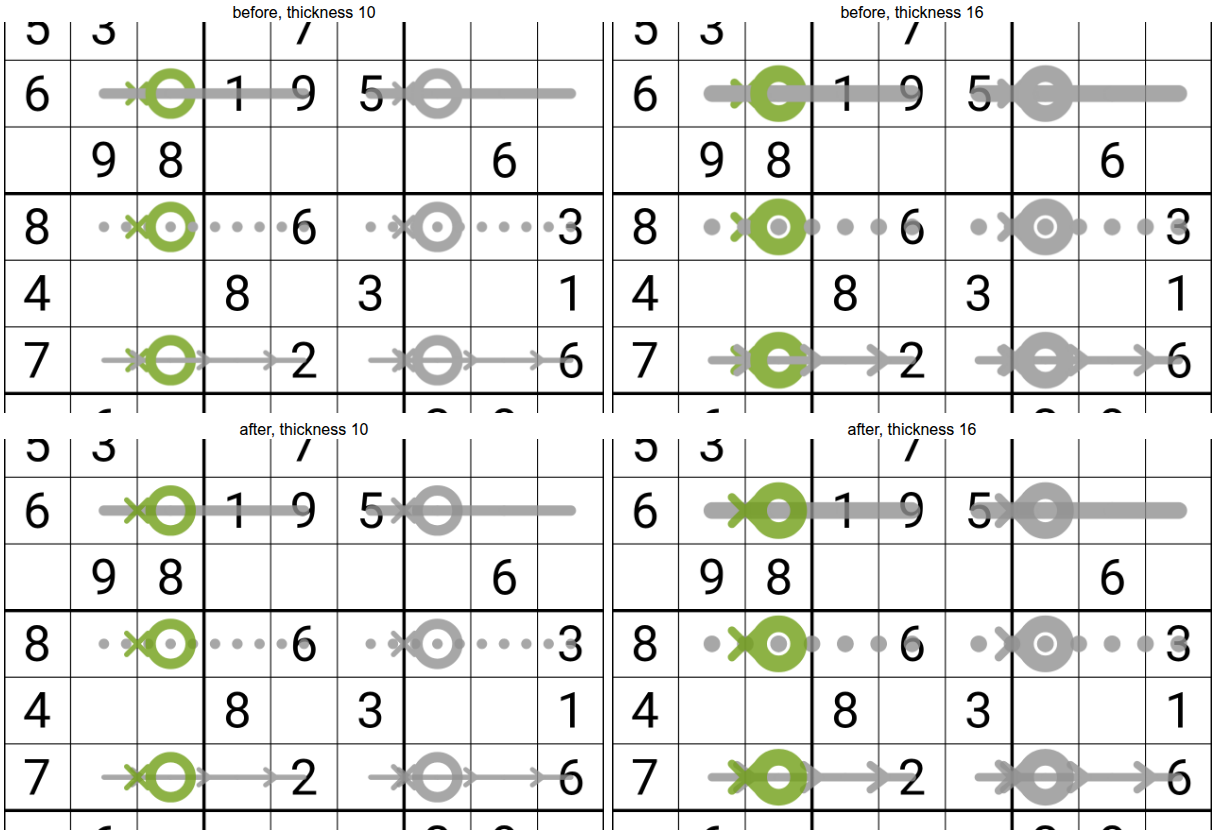
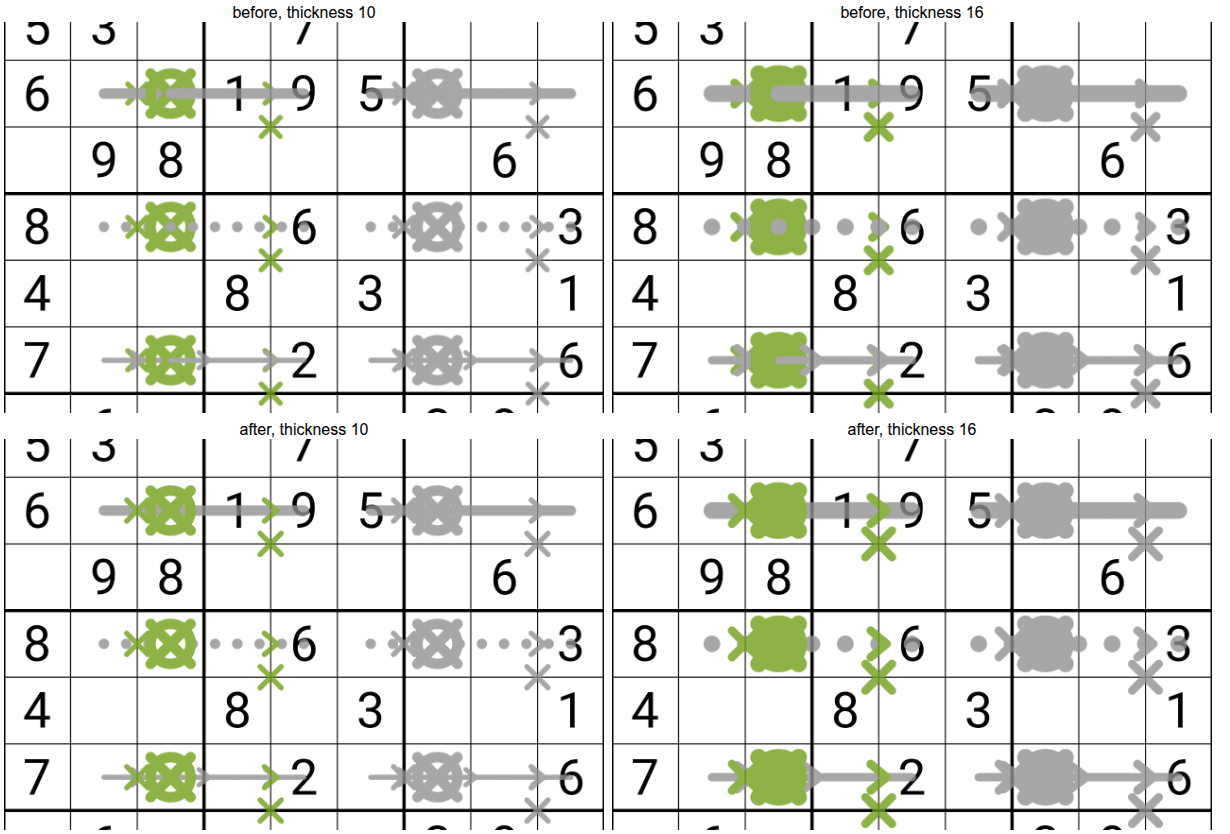
Pen Tool Extras: marks layer inside the pen layer, review fixes (#78)
Fixes the review wave's findings: the marks layer is the pen layer's last
child so the opacity fades marks and lines as one picture; tests, comments
and docs follow; the doc change moves to docs/pen-tool-extras.md.

Closes #78

diff --git a/pen-tool-extras.user.js b/pen-tool-extras.user.js
@@ -53,8 +53,9 @@
   // The group the drag highlight (`.penhint`, and the erase highlight, which is the same element) is moved
   // to while a line is dragged, so the pen layer's opacity does not fade it. It sits right above the pen layer.
   const HINT_LAYER_ID = 'pen-tool-extras-hint'
-  // The group every edge, corner and cell mark is drawn in, made beside the pen layer and above it, so a mark is over every line
-  // whichever cell holds it (SudokuPad adds a cell's strokes to the pen layer in cell order, so a later cell's line covers an earlier cell's mark).
+  // The group every edge mark, grid-corner mark and cell circle and cross is drawn in. It is the last child of the pen layer, so a mark is over every line
+  // whichever cell holds it (SudokuPad adds a cell's strokes to the pen layer in cell order, so a later cell's line covers an earlier cell's mark), and the
+  // pen layer's opacity fades marks and lines as one picture.
   const MARKS_LAYER_ID = 'pen-tool-extras-marks'
   const SVG_NAMESPACE = 'http://www.w3.org/2000/svg'
   // `MouseEvent.button` of the right mouse button.
@@ -167,7 +168,7 @@
   // bottom row's first column, the two grid corners the other kinds cannot reach. Per kind: the X,
   // then the circle, in the order of CORNER_CYCLE.types.
   const CORNER_VALUES = { tl: ['t', 'w'], br: ['u', 'x'], far: ['v', 'y'] }
-  // The pen values drawn in the marks layer: SudokuPad's own edge X and the cell circle and cross, and every value this script adds.
+  // The pen values drawn in the marks layer: SudokuPad's own edge X and cell circle and cross, and every edge mark and grid-corner mark value this script adds.
   const MARK_VALUES = [...EDGE_X, '5', '6', ...EDGE_X.flatMap((edge) => ADDED[edge]), ...Object.values(CORNER_VALUES).flat()]
   // The shape of the third mark per edge. Its checkbox is the `dot` field of the saved settings.
   const CIRCLE = 'o'
@@ -674,7 +675,7 @@
   // whichever stylesheet loads last.
   function buildOpacityCss (opacity) {
     if (normalizeOpacity(opacity) !== opacity) throw new RangeError(`pen-tool-extras: ${opacity} is not an opacity from ${OPACITY.min} to ${OPACITY.max} in steps of ${OPACITY.step}`)
-    return `:root:root .cell-pen { opacity: 1; }\n:root:root ${PEN_LAYER}, :root:root #${MARKS_LAYER_ID} { opacity: ${opacity / 100}; }`
+    return `:root:root .cell-pen { opacity: 1; }\n:root:root ${PEN_LAYER} { opacity: ${opacity / 100}; }`
   }
 
   // How much shorter than an even split of a segment the dot spacing is. With the spacing exactly `length / dots`
@@ -1056,26 +1057,32 @@
     return group
   }
 
-  // Moves a mark's path from the pen layer into the marks layer. The cell still holds the same element, so erasing, undo and a
-  // redraw remove it from wherever it is.
-  function raiseMark (part) {
+  // Puts the marks layer back as the last child of the pen layer, which a stroke SudokuPad has just added after it displaced, and
+  // moves `part` into it when it is a mark. The cell still holds the same element, so erasing, undo and a redraw remove it from
+  // wherever it is.
+  function keepMarksAbove (part, isMark) {
     const layer = marksLayer()
-    if (layer && part && part.parentNode !== layer) layer.appendChild(part)
+    if (!layer) return
+    if (isMark && part && part.parentNode !== layer) layer.appendChild(part)
+    if (layer.parentNode.lastChild !== layer) layer.parentNode.appendChild(layer)
   }
 
-  // Draws the values this script adds. SudokuPad's own `renderPen` has no case for them and
-  // gives the path no `d`; it copies every option onto the path, so passing `d` is enough. A line in a page 3
+  // Draws the values this script adds, and keeps every mark above the lines. SudokuPad's own `renderPen` has no case for the values
+  // and gives the path no `d`; it copies every option onto the path, so passing `d` is enough. A line in a page 3
   // pen's color is drawn as a chevron line instead.
   function wrapRenderPen (proto, renderer) {
     const original = proto.renderPen
     const size = renderer.constructor.CellSize
-    proto.renderPen = function (opts = {}) {
+    const draw = function (opts) {
       const forward = chevronOf(opts)
       if (forward !== null) return renderChevronLine(this, opts, forward)
       const mark = addedMark(opts.value, opts.row, opts.col)
       const d = mark === null ? undefined : this.constructor.rcToPathData([mark.point]) + shapePath(mark.shape, size * 0.125)
-      const part = original.call(this, mark === null ? opts : Object.assign({}, opts, { d }))
-      if (MARK_VALUES.includes(opts.value)) raiseMark(part)
+      return original.call(this, mark === null ? opts : Object.assign({}, opts, { d }))
+    }
+    proto.renderPen = function (opts = {}) {
+      const part = draw.call(this, opts)
+      keepMarksAbove(part, MARK_VALUES.includes(opts.value))
       return part
     }
   }
@@ -1570,26 +1577,29 @@
     if (saved && saved !== selectedPen() && penNumber(saved) === selectedPen()) penTool.setSelectedColor(saved)
   }
 
-  // The group with `id`, made on first use right after the element `anchor` gives; null when the page has no such element.
-  function layerAfter (id, anchor) {
+  // The group `id`, made on first use as the last child of the pen layer, or right after it with `beside`; null when the page has no
+  // pen layer.
+  function layerIn (id, beside) {
     let layer = document.getElementById(id)
-    const before = anchor()
-    if (!layer && before) {
+    const penLayer = document.querySelector(PEN_LAYER)
+    if (!layer && penLayer) {
       layer = document.createElementNS(SVG_NAMESPACE, 'g')
       layer.id = id
-      before.after(layer)
+      if (beside) penLayer.after(layer)
+      else penLayer.appendChild(layer)
     }
     return layer
   }
 
-  // The group the marks live in, made beside the pen layer and above it; null when the page has no pen layer.
+  // The group the marks live in, inside the pen layer; null when the page has no pen layer.
   function marksLayer () {
-    return layerAfter(MARKS_LAYER_ID, () => document.querySelector(PEN_LAYER))
+    return layerIn(MARKS_LAYER_ID, false)
   }
 
-  // The group the drag highlight lives in, above the marks, made on first use; null when the page has no pen layer.
+  // The group the drag highlight lives in, made on first use beside the pen layer; null when the page has no
+  // pen layer.
   function hintLayer () {
-    return layerAfter(HINT_LAYER_ID, () => document.getElementById(MARKS_LAYER_ID) || document.querySelector(PEN_LAYER))
+    return layerIn(HINT_LAYER_ID, true)
   }
 
   function installPenPages (tool) {

diff --git a/pen-tool-extras.test.js b/pen-tool-extras.test.js
@@ -6,7 +6,7 @@ const path = require('node:path')
 const { headerVersion } = require('./header-version.js')
 const {
   normalizeColors, buildCss, DEFAULT_COLORS, parseColor, isTransparent, darkenColor, penColorsFromPage, savedColors, editedColors,
-  HOLD_TO_EDIT_MS, normalizeThickness, buildThicknessCss, normalizeOpacity, buildOpacityCss, renderPanelSliders, renderEditor, markGrowthScale, MARK_VALUES, MARKS_LAYER_ID, DASH, normalizeDash, normalizeSliderVisibility, OPACITY, THICKNESS, FULL_WIDTH_VALUES, LIGHTNESS_FACTOR, GREY_CHROMA, COLOR_TOOL_WAIT_MS, VERSION,
+  HOLD_TO_EDIT_MS, normalizeThickness, buildThicknessCss, normalizeOpacity, buildOpacityCss, renderPanelSliders, renderEditor, markGrowthScale, MARK_VALUES, DASH, normalizeDash, normalizeSliderVisibility, OPACITY, THICKNESS, FULL_WIDTH_VALUES, LIGHTNESS_FACTOR, GREY_CHROMA, COLOR_TOOL_WAIT_MS, VERSION,
   stepType, EDGE_CYCLE, planClick, normalizeMarkSettings, shapeOf, shapePath, DEFAULT_MARK_SETTINGS,
   CORNER_RADIUS, CORNER_VALUES, cornerAt, cornerStorage, cornerPoint, cornerMarkOf, planCornerClick,
   PEN_PAGES, penPageOf, penNumber, penCharOn, normalizePen, stepPage, buildPagesCss, renderPageIcon, normalizeLineMode, LINE_MODES,
@@ -368,12 +368,10 @@ test('edge marks and corner marks keep today\'s size up to the default thickness
   assert.equal(Math.abs(markGrowthScale(10) - (1 + 0.6 * 5 / 11)) < 1e-3, true)
 })
 
-test('MARK_VALUES holds every edge, corner and cell mark value and no line value, so no line is drawn in the marks layer', () => {
-  const lines = new Set(LINE_VALUES)
-  assert.deepEqual(MARK_VALUES.filter((v) => lines.has(v)), [])
-  for (const v of ['3', '4', 'b', 'c', '5', '6', 'h', 's', 't', 'y']) assert.equal(MARK_VALUES.includes(v), true, v)
-  assert.equal(new Set(MARK_VALUES).size, MARK_VALUES.length)
-  assert.equal(MARKS_LAYER_ID, 'pen-tool-extras-marks')
+test('MARK_VALUES holds exactly the values of SudokuPad\'s edge X and cell circle and cross and of every edge mark and grid-corner mark this script adds, and no line value', () => {
+  const expected = ['3', '4', 'b', 'c', '5', '6', 'h', 'i', 'j', 'k', 'l', 'm', 'n', 'o', 'p', 'q', 'r', 's', 't', 'u', 'v', 'w', 'x', 'y']
+  assert.deepEqual([...MARK_VALUES].sort(), [...expected].sort())
+  assert.deepEqual(MARK_VALUES.filter((v) => LINE_VALUES.includes(v)), [])
 })
 
 test('the scale lands on every edge and corner mark and on no line, and a mark stays centred on its edge or corner while it grows', () => {
@@ -419,15 +417,15 @@ test('normalizeOpacity falls back to 80 for nothing saved and for anything untru
   }
 })
 
-test('buildOpacityCss at 80 fades the pen layer and the marks layer above it to SudokuPad\'s own 0.8, each as one group, and leaves each stroke solid, under :root:root', () => {
-  assert.equal(buildOpacityCss(80), ':root:root .cell-pen { opacity: 1; }\n:root:root #cell-pen, :root:root #pen-tool-extras-marks { opacity: 0.8; }')
+test('buildOpacityCss at 80 fades the pen layer to SudokuPad\'s own 0.8 as one group and leaves each stroke solid, under :root:root', () => {
+  assert.equal(buildOpacityCss(80), ':root:root .cell-pen { opacity: 1; }\n:root:root #cell-pen { opacity: 0.8; }')
 })
 
 test('buildOpacityCss writes the fraction of the percent, and 1 at 100', () => {
   const layer = (css) => css.split('\n')[1]
-  assert.equal(layer(buildOpacityCss(20)), ':root:root #cell-pen, :root:root #pen-tool-extras-marks { opacity: 0.2; }')
-  assert.equal(layer(buildOpacityCss(35)), ':root:root #cell-pen, :root:root #pen-tool-extras-marks { opacity: 0.35; }')
-  assert.equal(layer(buildOpacityCss(100)), ':root:root #cell-pen, :root:root #pen-tool-extras-marks { opacity: 1; }')
+  assert.equal(layer(buildOpacityCss(20)), ':root:root #cell-pen { opacity: 0.2; }')
+  assert.equal(layer(buildOpacityCss(35)), ':root:root #cell-pen { opacity: 0.35; }')
+  assert.equal(layer(buildOpacityCss(100)), ':root:root #cell-pen { opacity: 1; }')
 })
 
 // The id, range and value of each range input in markup, in order.

diff --git a/dark-page.test.js b/dark-page.test.js
@@ -146,6 +146,7 @@ test('growBox grows every side by the amount', () => {
 
 test('a pen mark\'s reach is kept around the cells, past the 18.53px measured on the page at Pen Tool Extras\' largest thickness', () => {
   assert.equal(SOLVER_REACH >= 18.53, true)
+  assert.equal(SOLVER_REACH <= 18.53 * 1.1, true, 'a reach well past the measured one keeps white the marks never reach')
 })
 
 test('markerReach is the farthest side of the marker from its reference point, times the stroke width unless it is in user units, times the scale', () => {

diff --git a/GLOSSARY.md b/GLOSSARY.md
@@ -54,11 +54,11 @@
   opacity slider, saved under `PenColor_sliders`: a hidden slider is left out of the panel but its value still applies;
   its row stays as an empty row of the same height, and with both hidden the block is not drawn. Its Restore defaults
   sets both dialog sliders back to their defaults for Save, like the colors.
-- **marks layer** — the group (`#pen-tool-extras-marks`) just above the pen layer that holds every edge mark, grid-corner mark and the cell circle and cross, so a mark is drawn over every pen line whichever cell holds it. SudokuPad adds a cell's strokes to its pen layer in cell order, so without it a line in a later cell covers a mark in an earlier one. It has the same opacity as the pen layer.
+- **marks layer** — the group (`#pen-tool-extras-marks`) that is the last child of the pen layer and holds every edge mark, grid-corner mark and the cell circle and cross, so a mark is drawn over every pen line whichever cell holds it. SudokuPad adds a cell's strokes to its pen layer in cell order, so without it a line in a later cell covers a mark in an earlier one. It is inside the pen layer, so the pen layer's opacity fades it with the lines as one picture.
 - **opacity** — the setting, with a slider in the pen tool's panel and one in the settings dialog, setting how see-through the pen layer is (lines, cell circles and
   crosses, edge marks, grid-corner marks), in percent from 20 to 100 in steps of 5, saved at once, on every move, under
   `PenColor_opacity`. SudokuPad's own is 80, set on each stroke (`.cell-pen { opacity: 0.8 }`); the script sets it on the
-  whole pen layer (`#cell-pen`) and the **marks layer** instead, so overlapping strokes do not darken. 80 is the default; 100 is solid.
+  whole pen layer (`#cell-pen`) instead, so overlapping strokes do not darken. 80 is the default; 100 is solid.
 - **pen page** — one of the lists of nine pens in `PEN_PAGES`. Page 1 is SudokuPad's own pens 1 to 9; page 2 is the same
   nine colors drawn as dotted lines, or dashes of the **dash length**; page 3 is the same nine as **chevron lines**. The pen on color button N has the same color on every page, so recoloring it changes
   it on all of them.

diff --git a/docs/pen-tool-extras.md b/docs/pen-tool-extras.md
@@ -31,7 +31,9 @@ Both sliders sit in the pen tool's panel, each with a small line icon, so you ca
 | Thickness | 1 to 16 | 5 | Lines, cell circles and crosses, and edge and corner marks, by the same factor | `PenColor_thickness` |
 | Opacity | 20 to 100%, in steps of 5 | 80 | How see-through every pen mark is | `PenColor_opacity` |
 
-**Mark growth:** above thickness 5, edge and corner marks also get longer, evenly to 1.3 times at 16, staying centred with the same stroke width. Lines don't. It's a CSS scale, so marks already drawn grow too. Dark Page keeps the largest of them inside its rectangle.
+**Mark growth:** above thickness 5, edge and corner marks also get longer, evenly to 1.6 times at 16, staying centred with the same stroke width, so the whole of an edge X clears a line of the same thickness. Lines don't. It's a CSS scale, so marks already drawn grow too. Dark Page keeps the largest of them inside its rectangle.
+
+**Marks above lines:** every edge mark, corner mark and cell circle and cross is drawn above every pen line, whichever cell holds it. SudokuPad draws strokes in cell order, which used to bury a mark under a line in a later cell. A mark in the same color as the line under it still doesn't stand out on a thick line; it shows only by its shape.
 
 **Opacity on the whole layer:** strokes that overlap don't darken at the joins. Where two colors cross, the later stroke covers the earlier one instead of blending with it. The drag and erase highlights keep SudokuPad's own look at every value.
 
